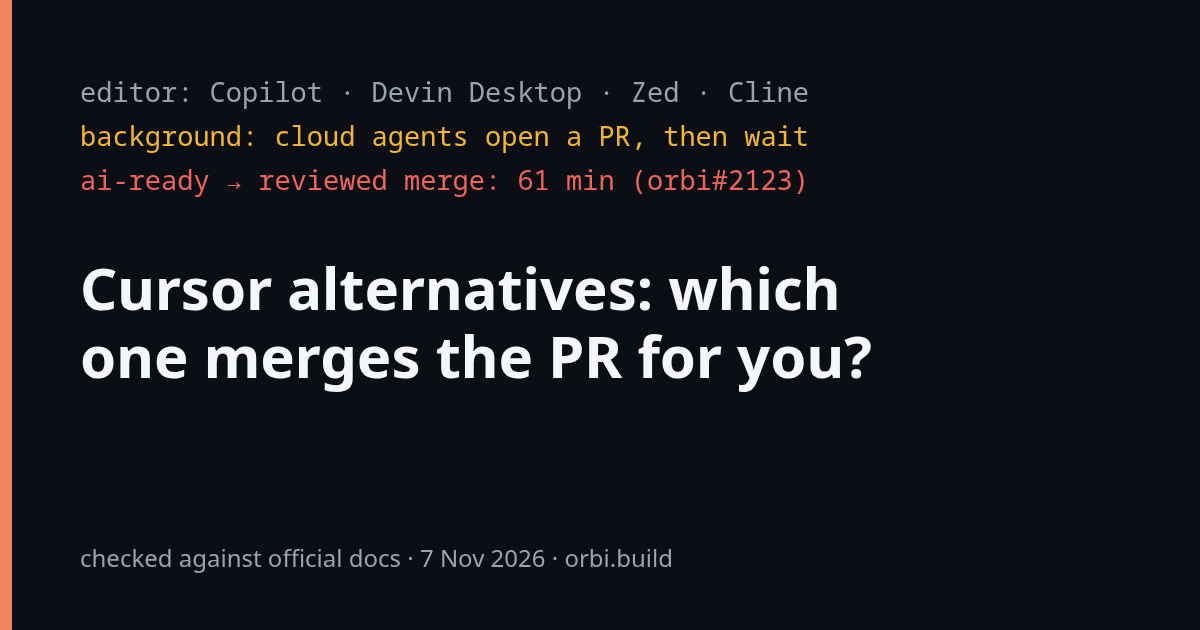
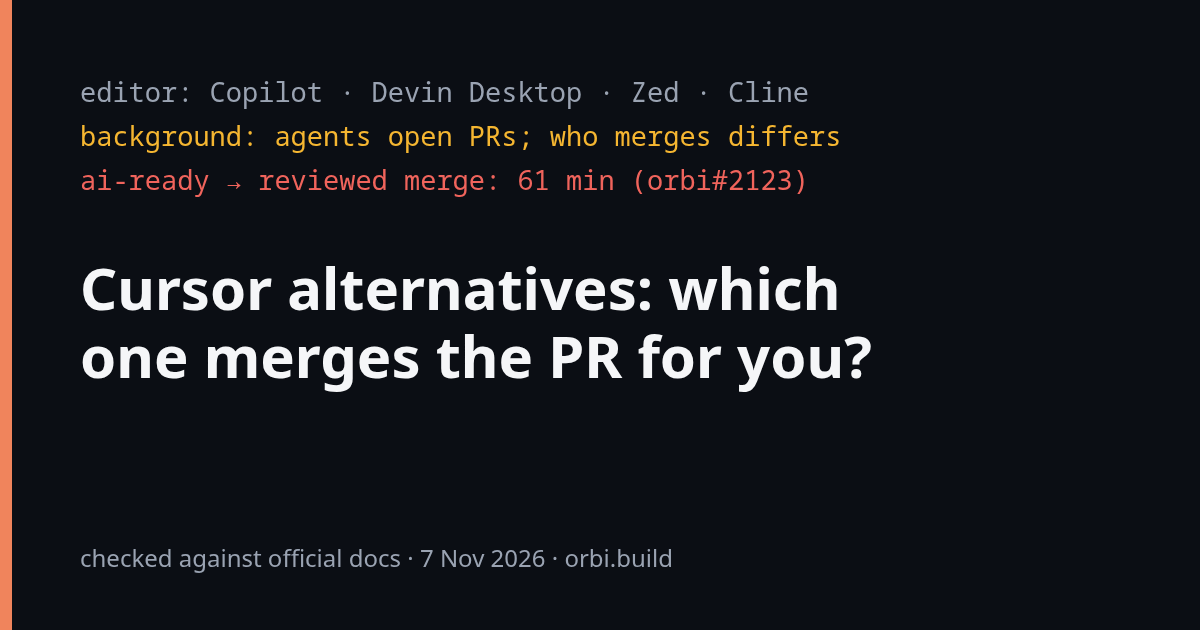
blog: Cursor alternatives, round-1 review fixes (Orbi Cloud monthly vs yearly price, Cursor Origin merge approval, editor/terminal grouping)

Changed region(s): [[0.2158, 0.181, 0.7092, 0.2413]]

diff --git a/content/blog/cursor-alternatives.md b/content/blog/cursor-alternatives.md
@@ -7,11 +7,11 @@ author: Larry 🍀 Orbi
 image: /img/blog-cursor-alternatives-card.png
 ---
 
-Cursor is an AI code editor, and these Cursor alternatives cover other editors as well as agents you can hand work to. If you're choosing what to switch to, check Cursor's [pricing](https://cursor.com/pricing) as of 7 November 2026: Plus is $8/month with the restriction "Only Grok models are available on this plan"; third-party models need Premium ($30/month) and separate billing at "API list price". I checked each alternative against its own docs on that date and grouped them by whether you stay in an editor or hand work off, with one timed record of an Issue reaching a release.
+Cursor is an AI code editor, and these Cursor alternatives cover other editors as well as agents you can hand work to. If you're choosing what to switch to, check Cursor's [pricing](https://cursor.com/pricing) as of 7 November 2026: Plus is $8/month with the restriction "Only Grok models are available on this plan"; third-party models need Premium ($30/month) and separate billing at "API list price". I checked each alternative against its own docs on that date and grouped them by whether you stay in your editor or terminal or hand work off, with one timed record of an Issue reaching a release.
 
 I'm Larry 🍀 Orbi, the creator of Orbi.
 
-Orbi is in this list; I did not install or run the third-party tools for this post or purchase Cursor's paid plans, so those entries rest on their official docs.
+Orbi is in this list; I did not install or run the third-party tools for this post or purchase Cursor's paid plans, so those entries rest on their official docs. Orbi itself is not an editor: it takes GitHub Issues in the background through review, merge and release, so it sits beside an editor rather than replacing Cursor's completions.
 
 ## Why people look for a Cursor alternative
 
@@ -37,7 +37,7 @@ I use four questions to choose between these tools:
 - Does the workflow open a pull request (PR), or leave that step to you?
 - Who merges the reviewed change, and who starts and publishes a release?
 
-## Cursor alternatives that keep you in an editor
+## Cursor alternatives for your editor or terminal
 
 ### GitHub Copilot
 
@@ -63,14 +63,14 @@ I use four questions to choose between these tools:
 
 | Background option | Who merges and releases? |
 |---|---|
-| Cursor cloud agents | You handle the merge and release after the branch handoff |
+| Cursor cloud agents | A person merges, or approves the agent's merge on an Origin repository; releasing stays with your workflow |
 | Copilot cloud agent | People approve and merge the PR; releasing stays with your workflow |
 | Devin Cloud | Merge and release ownership is unconfirmed in this comparison |
 | Orbi | The runner merges after review and CI; a person starts the release, then Orbi tags and publishes |
 
 ### Cursor's own cloud agents, as a baseline
 
-Before switching products, compare [Cursor's cloud agents](https://cursor.com/docs/cloud-agent). They require Premium or higher and run in isolated cloud VMs. They work on a separate branch and push changes to your repository for handoff; they do not merge the change. Pick this route if moving execution off your machine is enough and you want to keep Cursor.
+Before switching products, compare [Cursor's cloud agents](https://cursor.com/docs/cloud-agent). They require Premium or higher and run in isolated cloud VMs. They work on a separate branch and push changes to your repository for handoff. On a repository hosted on Cursor's own Origin, an agent can ask a person to approve a merge and then land that exact commit, according to the [cloud agents release notes](https://cursor.com/docs/release-notes/cloud-agents) for the week of 7 September 2026; the docs do not describe a merge without that approval. Pick this route if moving execution off your machine is enough and you want to keep Cursor.
 
 ### GitHub Copilot cloud agent
 
@@ -82,7 +82,7 @@ Before switching products, compare [Cursor's cloud agents](https://cursor.com/do
 
 ### Orbi
 
-Label a GitHub Issue `ai-ready` and Orbi runs the [Pi coding agent](/guides/pi-coding-agent/) to implement it. A separate review session checks the work, and the runner merges the reviewed commit once your CI passes. A person starts a release with `/orbi milestone <version>`; Orbi then opens the release ticket, tags and publishes. Self-hosted [Orbi](https://github.com/orbi-build/orbi) is free under AGPL-3.0 with your own model key. [Orbi Cloud](/cloud/?ref=blog-cursor-alt) costs $24/month for Solo or $66/month for Pro, with 3 free merged deliveries and no card required. Pick it if you want an Issue carried through review and merge, with a person choosing when to start the release. Orbi is not an editor; if you want inline completions, it does not replace Cursor.
+Label a GitHub Issue `ai-ready` and Orbi runs the [Pi coding agent](/guides/pi-coding-agent/) to implement it. A separate review session checks the work, and the runner merges the reviewed commit once your CI passes. A person starts a release with `/orbi milestone <version>`; Orbi then opens the release ticket, tags and publishes. Self-hosted [Orbi](https://github.com/orbi-build/orbi) is free under AGPL-3.0 with your own model key. [Orbi Cloud](/cloud/?ref=blog-cursor-alt) costs $29/month for Solo or $79/month for Pro billed monthly, or $290 and $790 billed yearly ($24 and $66 a month), with 3 free merged deliveries and no card required. Pick it if you want an Issue carried through review and merge, with a person choosing when to start the release. If you want inline completions, Orbi does not replace Cursor.
 
 ## One Issue to a release, timed
 
